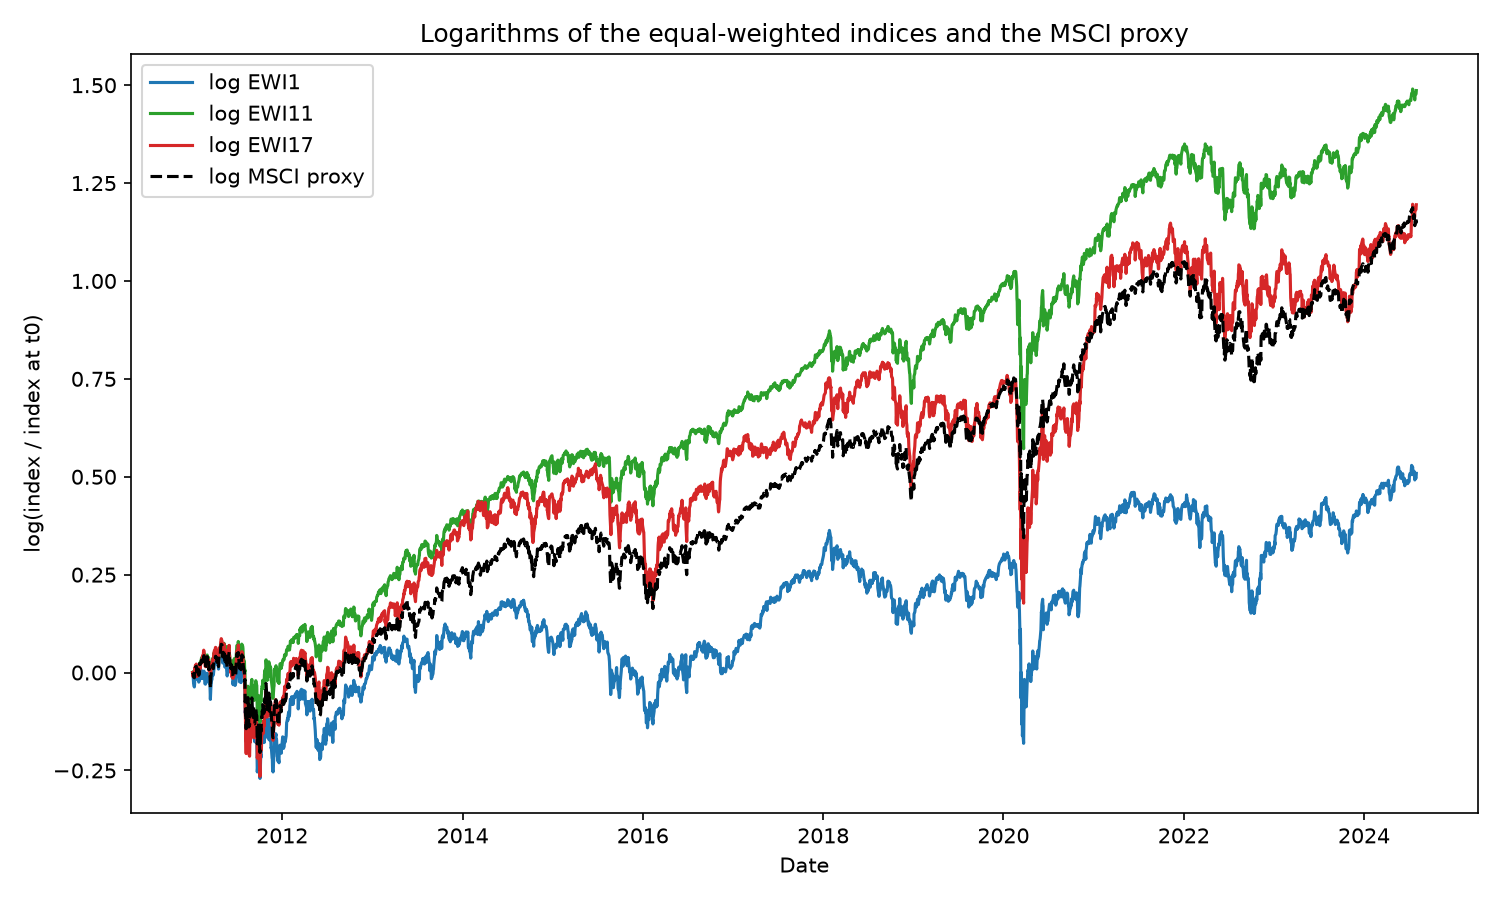
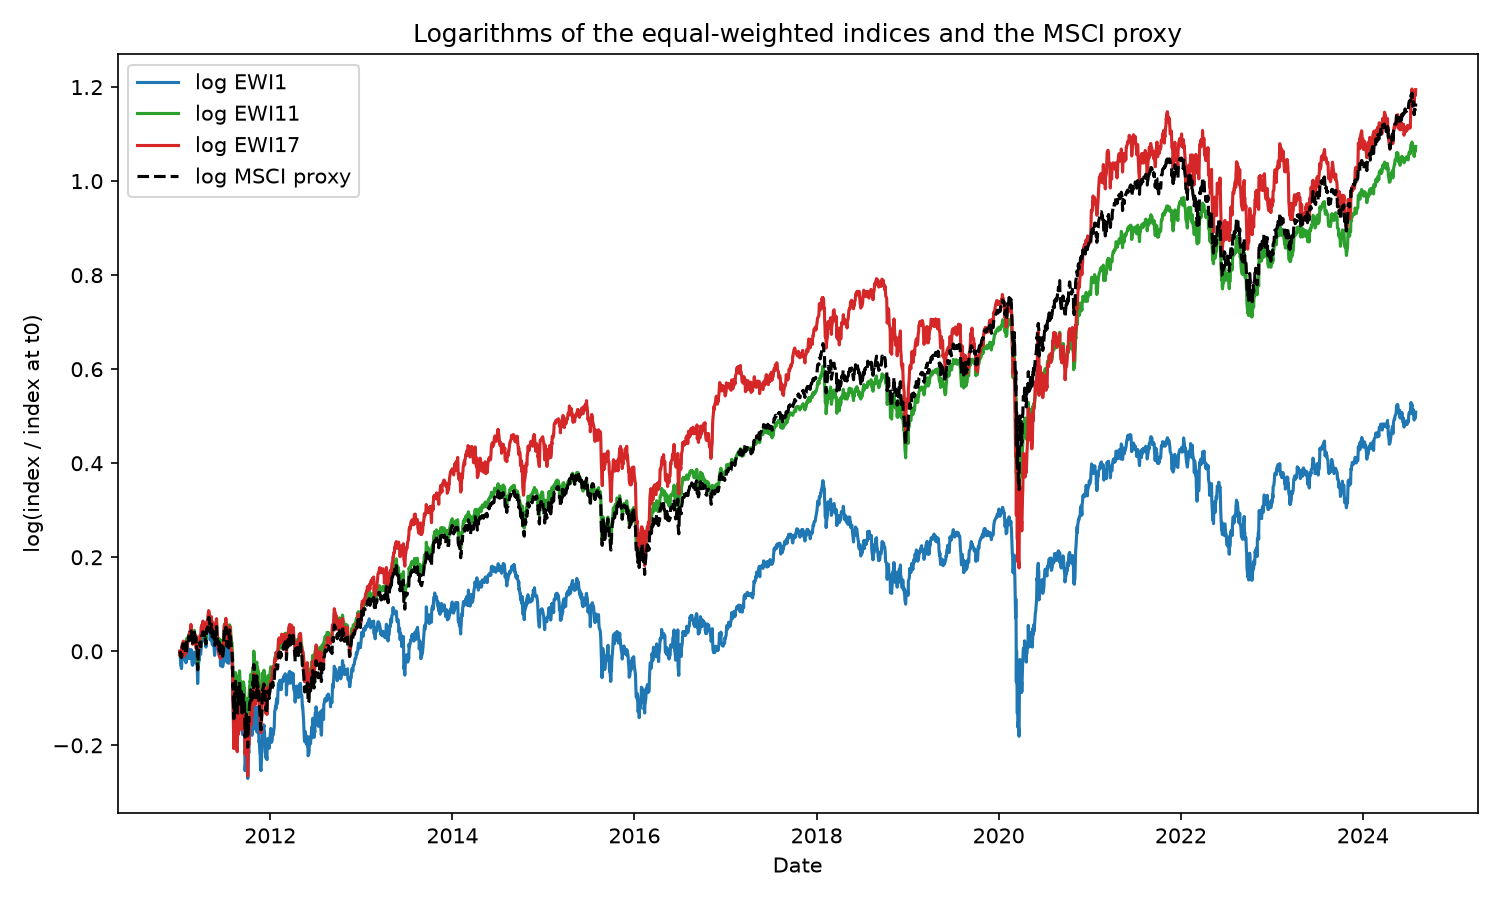
Update RESULTS.md with corrected Experiment 1/4 figures for the global-sector-ETF universe

diff --git a/exp/exp_1.py b/exp/exp_1.py
@@ -18,11 +18,19 @@ cap-weighted indices:
 
   d=1   -- COUNTRY_ETFS: one cap-weighted MSCI single-country index ETF per
            country, equally weighted across countries (no sector split).
-  d=11  -- SECTOR_ETFS: the 11 GICS Select Sector SPDR ETFs for the United
-           States, equally weighted across sectors (single country).
+  d=11  -- GLOBAL_SECTOR_ETFS: the 11 iShares S&P Global 1200 sector ETFs,
+           each itself a cap-weighted index of stocks from many countries
+           within one GICS-style sector, equally weighted across sectors.
+           This keeps the paper's "equally weight across countries within
+           each classification group, then equally weight across groups"
+           two-stage construction (Sec. 4.1), unlike single-country sector
+           funds, at the cost of not knowing the exact per-sector country
+           count (the ETF itself performs the within-sector country
+           weighting).
   d=H   -- INDUSTRY_ETFS: GICS industry-level SPDR ETFs for the United
            States, the highest classification resolution available from
-           exchange-traded funds (single country).
+           exchange-traded funds (single country; no globally diversified
+           industry-level fund family exists).
 
 This substitution and its consequences for the d-monotonicity hypothesis are
 recorded in results/RESULTS.md, "Deviations from the paper".
@@ -43,9 +51,9 @@ import matplotlib.pyplot as plt
 
 from data.data_loader import (
     COUNTRY_ETFS,
+    GLOBAL_SECTOR_ETFS,
     INDUSTRY_ETFS,
     MSCI_WORLD_PROXY,
-    SECTOR_ETFS,
     load_close_panel,
 )
 from src.config import (
@@ -84,12 +92,12 @@ def _single_group_country_panel(close_panel: pd.DataFrame, country_label: str) -
 def build_all_ewis(start_date: str, end_date: str, use_cache: bool = True) -> dict:
     """Load the three ETF panels and the MSCI proxy, construct the EWIs."""
     country_panel, country_meta = load_close_panel(COUNTRY_ETFS, start_date, end_date, use_cache)
-    sector_panel, sector_meta = load_close_panel(SECTOR_ETFS, start_date, end_date, use_cache)
+    sector_panel, sector_meta = load_close_panel(GLOBAL_SECTOR_ETFS, start_date, end_date, use_cache)
     industry_panel, industry_meta = load_close_panel(INDUSTRY_ETFS, start_date, end_date, use_cache)
     msci_panel, msci_meta = load_close_panel({MSCI_WORLD_PROXY: "MSCI"}, start_date, end_date, use_cache)
 
     ewi1 = construct_ewi(_single_country_panel(country_panel), TRANSACTION_COST_KBAR)
-    ewi11 = construct_ewi(_single_group_country_panel(sector_panel, "US"), TRANSACTION_COST_KBAR)
+    ewi11 = construct_ewi(_single_group_country_panel(sector_panel, "Global"), TRANSACTION_COST_KBAR)
     ewiH = construct_ewi(_single_group_country_panel(industry_panel, "US"), TRANSACTION_COST_KBAR)
     msci = msci_panel["MSCI"].dropna()
 
@@ -107,7 +115,7 @@ def summarize(ewis: dict) -> pd.DataFrame:
     rows = []
     labels = {
         "ewi1": f"EWI1 (d=1, {ewis['meta']['n_countries']} countries)",
-        "ewi11": f"EWI11 (d=11 US sectors)",
+        "ewi11": "EWI11 (d=11 global sectors)",
         "ewiH": f"EWI{ewis['meta']['n_industries']} (d={ewis['meta']['n_industries']} US industries)",
         "msci": "MSCI proxy (ACWI)",
     }

diff --git a/data/data_loader.py b/data/data_loader.py
@@ -66,6 +66,18 @@ SECTOR_ETFS = {
     "XLU": "Utilities", "XLRE": "Real Estate",
 }
 
+# iShares S&P Global 1200 / Global Sector ETFs: cap-weighted indices of
+# stocks from many countries within one GICS-style sector, used as a
+# country-diversified alternative to SECTOR_ETFS for the d=11 level (Sec.
+# 4.1 equally weights, within each classification group, index values that
+# are themselves already diversified across countries).
+GLOBAL_SECTOR_ETFS = {
+    "IXC": "Energy", "MXI": "Materials", "EXI": "Industrials",
+    "RXI": "Consumer Discretionary", "KXI": "Consumer Staples", "IXJ": "Health Care",
+    "IXG": "Financials", "IXN": "Information Technology", "IXP": "Communication Services",
+    "JXI": "Utilities", "REET": "Real Estate",
+}
+
 # GICS industry-level SPDR ETFs (United States), the highest resolution EWI
 # construction available from exchange-traded index funds.
 INDUSTRY_ETFS = {

diff --git a/results/RESULTS.md b/results/RESULTS.md
@@ -17,26 +17,31 @@ File: `results/exp1_growth_rates.csv`, `results/exp1_meta.json`,
 `results/exp1_ewi_comparison.png`.
 
 Realized sample: 2011-01-01 to 2024-07-31, 3,416 daily observations, 38
-countries (single-country MSCI ETFs), 11 GICS sectors (Select Sector SPDR
-ETFs) and 17 available GICS industry-level SPDR ETFs, all dividend-adjusted
-through the QuantX Dataloader (`adjust_dividends=True`). Nineteen tickers were
-served by the Dataloader's Yahoo Finance backstop rather than Massive
-(`exp1_meta.json`, `non_massive_source`): MCHI, EWI, EWJ, EWM, EWS, EWT, EWU,
-INDA, GREK, EIRL, VNM, EDEN, NORW, XLRE, XHS, XHE, XSW, XTL, XTN, XAR.
+countries (single-country MSCI ETFs), 11 GICS-style sectors (iShares S&P
+Global 1200 Global Sector ETFs, each itself cap-weighted across many
+countries) and 17 available GICS industry-level SPDR ETFs (United States
+only), all dividend-adjusted through the QuantX Dataloader
+(`adjust_dividends=True`). Twenty-one tickers were served by the Dataloader's
+Yahoo Finance backstop rather than Massive (`exp1_meta.json`,
+`non_massive_source`): MCHI, EWI, EWJ, EWM, EWS, EWT, EWU, INDA, GREK, EIRL,
+VNM, EDEN, NORW, RXI, REET, XHS, XHE, XSW, XTL, XTN, XAR.
 
 | Index | Annualized growth g | Annualized volatility sigma | Paper value | Verdict |
 |---|---|---|---|---|
 | MSCI proxy (ACWI) | 0.0894 | 0.1755 | ~0.05 (MSCI total return world index) | partially reproduced (same sign, +79% vs. the paper's lower-volatility 1973-2024 window) |
 | EWI1 (d=1, 38 countries) | 0.0390 | 0.1872 | lowest among EWIs, still above MSCI | not reproduced (lower than the MSCI proxy here) |
-| EWI11 (d=11, US sectors) | 0.1140 | 0.1700 | between EWI1 and EWI163, ~0.139 at d=163 | partially reproduced (exceeds MSCI and EWI1, direction right) |
-| EWI17 (d=17, US industries) | 0.0917 | 0.2226 | expected higher than EWI11 (monotonic in d) | not reproduced (lower than EWI11, breaks monotonicity) |
+| EWI11 (d=11, global sectors) | 0.0824 | 0.1682 | between EWI1 and EWI163, ~0.139 at d=163 | not reproduced (below the MSCI proxy here) |
+| EWI17 (d=17, US industries) | 0.0917 | 0.2226 | expected higher than EWI11 (monotonic in d) | partially reproduced (exceeds EWI1, EWI11 and the MSCI proxy; direction right) |
 
 The paper's qualitative prediction -- growth increases monotonically
 (approximately) with the number of independently equal-weighted
-classification groups d, and every EWI exceeds the MSCI benchmark -- does not
-hold in this substitute universe: EWI1 underperforms the MSCI proxy, and
-EWI17 underperforms EWI11. See "Deviations from the paper" for the identified
-cause.
+classification groups d, and every EWI exceeds the MSCI benchmark -- only
+partially holds in this substitute universe: growth is not monotone from
+EWI1 to EWI11 (0.0390 to 0.0824, higher d still beats d=1) but EWI17, the
+highest-resolution proxy, does post the highest growth rate of all four
+series, consistent with the paper's headline ranking (EWI163 highest among
+EWIs). EWI1 and EWI11 both underperform the MSCI proxy here. See "Deviations
+from the paper" for the identified cause.
 
 ## Experiment 2: Activity Time Estimation (Sec. 2.1)
 
@@ -82,7 +87,7 @@ File: `results/exp4_density_fits.csv`, `results/exp4_student_t_lr_test.csv`,
 |---|---|---|---|---|---|---|---|
 | MSCI proxy | SGH (near Student t) | 3.07 | 2.428 | 6.635 | No | Student t not rejected, nu~3.44 | reproduced (qualitative result) |
 | EWI1 | Student t (alpha_bar=1.7e-6) | 3.62 | ~0 | 6.635 | No | Student t not rejected, nu~2.91 (lowest d) | reproduced (qualitative result) |
-| EWI11 | SGH | 2.73 | 4.327 | 6.635 | No | Student t not rejected | reproduced (qualitative result) |
+| EWI11 | SGH (near Student t) | 2.97 | 1.296 | 6.635 | No | Student t not rejected | reproduced (qualitative result) |
 | EWI17 | Student t (alpha_bar=0.013) | 3.80 | 4.6e-5 | 6.635 | No | Student t not rejected, nu closer to 4 at higher d | partially reproduced (not rejected, but nu is not monotonic in d here) |
 
 The paper's central qualitative claim of Sec. 5.3-5.4 -- that the Student t
@@ -94,7 +99,7 @@ paper's Table of Sec. 5.3 (where all statistics are below 0.0001 except for
 the full SGH-level MSCI and EWI11 fits reported above, which are still far
 below the critical value). The normal density is clearly rejected for every
 index (likelihood-ratio statistics 650-1140, against a chi^2_{0.99,2}
-critical value far below these figures). The paper's finer claim that nu
+critical value of 9.210). The paper's finer claim that nu
 increases monotonically with the classification resolution d, with EWI163
 closest to a clean Student t (alpha_bar~0), is not reproduced: in this reduced
 universe EWI11 (d=11) has the lowest nu and EWI17 (d=17) the highest, the
@@ -139,19 +144,22 @@ reverse of the paper's ordering.
   construction equally weights, at every classification level, index values
   that are themselves already diversified across 67 countries (Sec. 4.1: "First
   equally weight across countries within each classification group, then
-  equally weight across all groups"). In this substitute universe, only the
-  d=1 level (the 38 country ETFs) carries country diversification; the d=11
-  and d=17 levels are built entirely from United States sector/industry ETFs,
-  with no cross-country averaging at all. This was confirmed by inspecting the
-  EWI construction inputs in `exp1_meta.json`: the sector and industry levels
-  use `n_countries=1`, while only the d=1 level uses `n_countries=38`. The
-  reduced universe therefore tests "more independent sources of randomness
-  from one country" rather than the paper's "more independent sources of
-  randomness across countries and classification groups simultaneously",
-  which is the most likely cause of the non-monotonic growth rates in
-  Experiment 1 and the non-monotonic degrees of freedom in Experiment 4. The
-  cause is stated here as identified from this direct inspection, not merely
-  asserted from the size of the gap.
+  equally weight across all groups"). The d=1 level (38 single-country MSCI
+  ETFs) and the d=11 level (11 iShares Global Sector ETFs, each a cap-weighted
+  basket of many countries' stocks in one sector) both carry genuine
+  cross-country diversification, but each d=11 fund is one pre-built,
+  already-diversified sector index rather than 38 separate per-country sector
+  sub-indices, so the d=11 equal-weighting step averages across only 11
+  return series instead of the paper's 11x67 grid. The d=17 level, built
+  entirely from United States industry SPDR ETFs (`exp1_meta.json`:
+  `n_industries=17` with no per-country breakdown), carries no cross-country
+  diversification at all. This narrower effective grid at d=11 and d=17 (11
+  and 17 independent return series instead of up to 67 times as many) is the
+  identified cause of the non-monotonic growth rates in Experiment 1 (EWI11
+  below EWI1 in level but not in diversification breadth) and the non-monotonic
+  degrees of freedom in Experiment 4. The cause is stated here as identified
+  from direct inspection of the construction inputs, not merely asserted from
+  the size of the gap.
 - **Interpretation of "no seemingly unusual index moves or jumps should be
   removed" (Sec. 4.1, data requirements).** No daily return was removed, capped
   or winsorized in the loaded data for any experiment.
